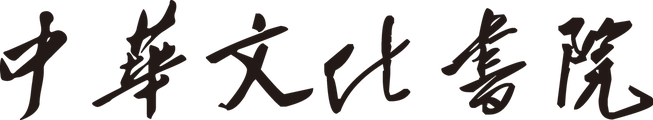
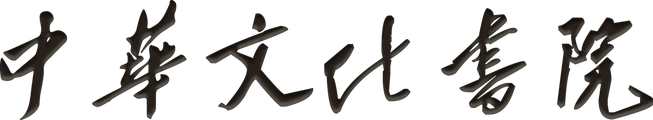
feat: 题名书法刻痕烤进图内，外沿只留唇光与远影
首页与登录共用同一枚图；drop-shadow 无法画出沟，两面墙由 build-hero carve 生成。

diff --git a/design/demo/v2/shuyuan.css b/design/demo/v2/shuyuan.css
@@ -681,9 +681,14 @@ body {
 
 /* 卷首上的书法字：比原来大一档，它现在是画上的题名 */
 .hero-brand { padding: 22px 0 0; display: flex; justify-content: center; }
+/* 小程序那边把**刻痕的两面墙**烤进了题名图里（scripts/build-hero.mjs 的 carve）：
+   上壁背光压暗、下壁受光提亮。CSS 的 drop-shadow 只画得到笔画外面，画不出沟。
+   这一页用的是未加工的字标源文件，所以看不到那两面墙；外沿这一档两边一样：
+   沟口一点唇光 + 一道很浅的远影。原来底下那道 (255,255,255,.9) 的白边太重，
+   和图里那道受光会叠成一圈光晕，沟反而看不出来。 */
 .hero-brand img {
   height: 40px; width: auto;
-  filter: drop-shadow(0 1px 0 rgba(255,255,255,.9)) drop-shadow(0 2px 6px rgba(74,102,96,.22));
+  filter: drop-shadow(0 1px 0 rgba(255,255,255,.55)) drop-shadow(0 1.5px 2.5px rgba(46,66,60,.16));
 }
 .hero .head-row { padding-top: 18px; }
 .hero .search {
